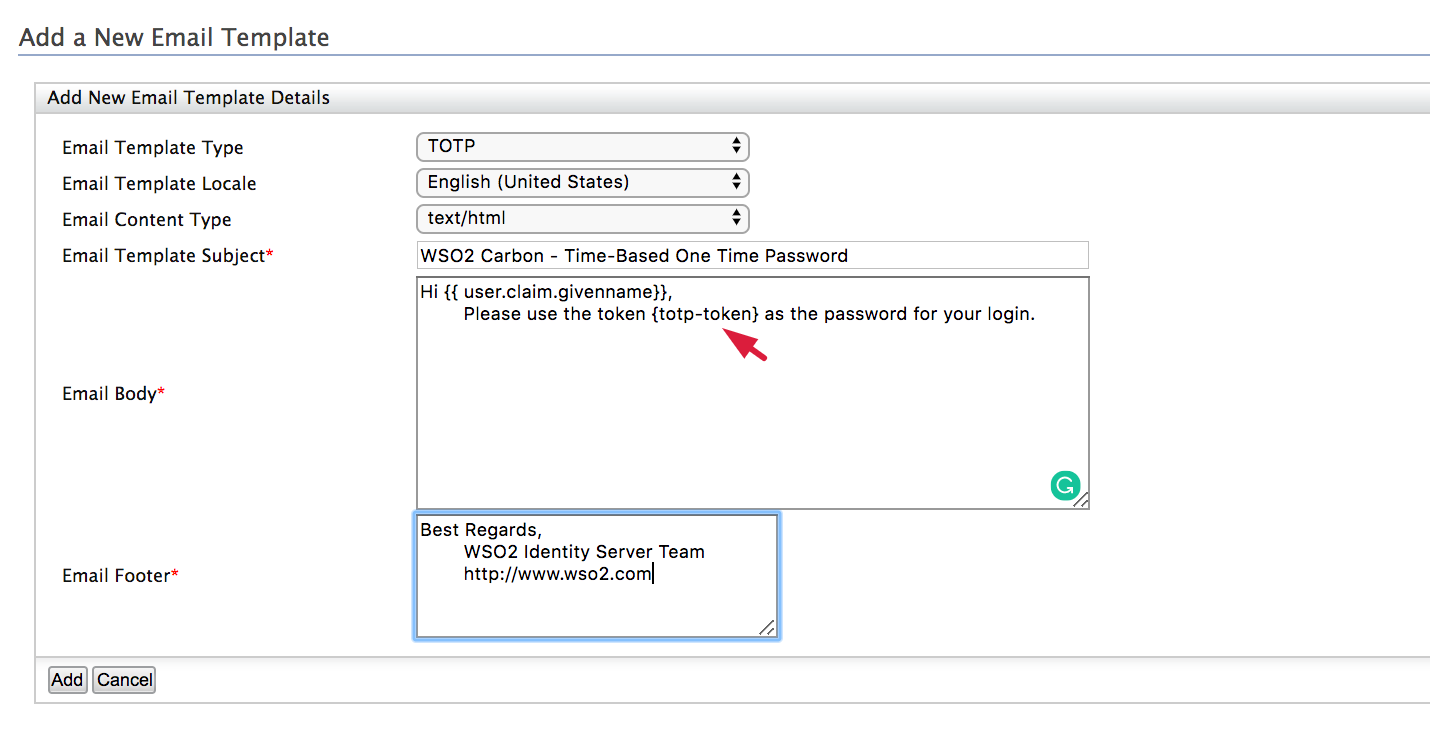
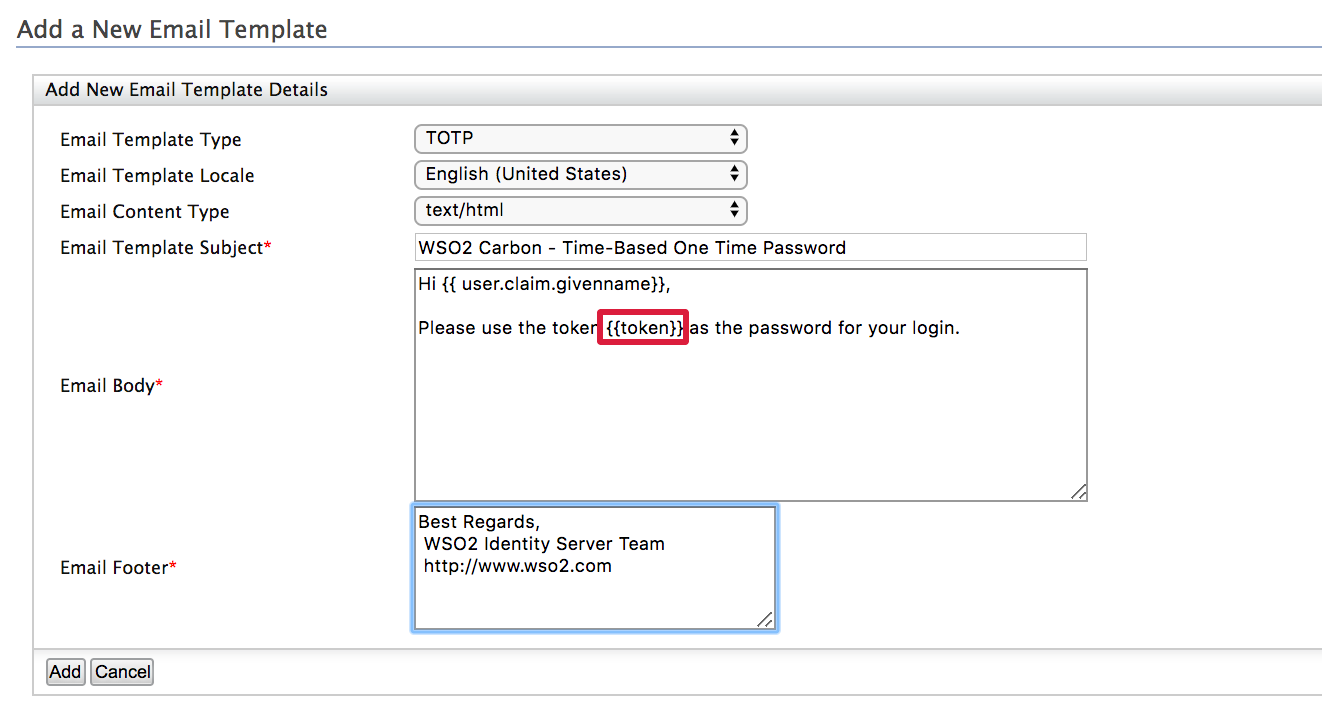
Add correct placeholder in TOTP email template

diff --git a/en/docs/learn/configuring-totp.md b/en/docs/learn/configuring-totp.md
@@ -1,45 +1,47 @@
 # Configuring TOTP Authenticator
 
 The TOTP authenticator allows you to authenticate a user using
-Time-Based One Time Password (TOTP) through WSO2 Identity Server. It
+**Time-Based One Time Password** (TOTP) through WSO2 Identity Server. It
 uses the TOTP specification to calculate the access tokens based on the
 time and the shared secret key between the user and the identity
 provider.
 
-TOTP is a temporary passcode, generated by an algorithm, for use in 
-authenticating access to computer systems. The algorithm that generates
-each password uses the current time of day as one of its factors,
-ensuring that each password is unique.
+TOTP is an **algorithm-generated temporary passcode** that is used for
+strong authentication. The algorithm that generates each passcode uses
+the current time of day as one of its factors, ensuring that each
+password is unique.
 
-## Before You begin
+!!! Info
+    -   For more information about TOTP specification, click
+    [here](https://tools.ietf.org/html/rfc6238).
+    -   For information on MFA concepts, see [About MFA](../../learn/multi-factor-authentication). 
 
-1.  Download the WSO2 Identity Server from
-    [here](http://wso2.com/products/identity-server/ ) and
-    [run it](../../setup/running-the-product/#starting-the-server).
-    
-2.  Sign in to the [Management Console](../../setup/getting-started-with-the-management-console/) by entering your
-    username and password.
-    
-    ??? Warning "If you have migrated from older version of WSO2 Identity Server"
+!!! Tip "Before You begin"
+
+    1.  Download the WSO2 Identity Server from
+        [here](http://wso2.com/products/identity-server/ ) and
+        [run it](../../setup/running-the-product/#starting-the-server).
         
-        1.  Under the WSO2 local claim dialect, check whether the `http://wso2.org/claims/identity/secretkey ` claim exists.
-        2.  Unless, in the **Main** menu, click **Add** under **Claims** .
-        2.  Click [Add Local Claim](../../learn/adding-claim-mapping/#add-local-claim) .
-            This displays the **Add Local Claim** screen.
-        3.  Specify the following claim details in the appropriate fields:
+    2.  Sign in to the [Management Console](../../setup/getting-started-with-the-management-console/) by entering your
+        username and password.
         
-        |                      |                                           |
-        |----------------------|-------------------------------------------|
-        | Claim URI            | http://wso2.org/claims/identity/secretkey |
-        | Display Name         | Secret Key                                |
-        | Description          | Claim to store the secret key             |
-        | Mapped Attribute     | totpSecretkey <br/> if you are using a LDAP or AD, set a proper attribute for this.                             |
+??? Warning "If you have migrated from older version of WSO2 Identity Server"
     
-        ![](../assets/img/tutorials/add-claim-secret-key.png)
+    1.  Under the WSO2 local claim dialect, check whether the `http://wso2.org/claims/identity/secretkey ` claim exists.
+    2.  Unless, in the **Main** menu, click **Add** under **Claims** .
+    2.  Click [Add Local Claim](../../learn/adding-claim-mapping/#add-local-claim) .
+        This displays the **Add Local Claim** screen.
+    3.  Specify the following claim details in the appropriate fields:
+    
+    |                      |                                           |
+    |----------------------|-------------------------------------------|
+    | Claim URI            | http://wso2.org/claims/identity/secretkey |
+    | Display Name         | Secret Key                                |
+    | Description          | Claim to store the secret key             |
+    | Mapped Attribute     | totpSecretkey <br/> if you are using a LDAP or AD, set a proper attribute for this.                             |
 
-!!! info 
-    For information on MFA concepts, see [About MFA](../../learn/multi-factor-authentication). 
-    
+    ![](../assets/img/tutorials/add-claim-secret-key.png)
+
 ##  Deploying travelocity.com sample application
 
 You need to deploy and configure **travelocity.com** sample application
@@ -63,7 +65,7 @@ The next step is to configure the service provider.
     
     1.  Select the **Advanced configuration** radio button option.
 
-    2.  Creating the first authentication step:
+    2.  To create the first authentication step:
 
         1.  Click **Add Authentication Step**.
 
@@ -75,7 +77,7 @@ The next step is to configure the service provider.
             credentials that are configured with the WSO2 Identity
             Server
 
-    3.  Creating the second authentication step:
+    3.  To create the second authentication step:
 
         1.  Click **Add Authentication Step**.
 
@@ -98,7 +100,7 @@ profile.
     ![my-profile-gadget](../assets/img/tutorials/my-profile-gadget.png)
 4.  Update your email address (this email address is used to send the
     token).
-3.  To enable TOTP, select the **Enable TOTP** checkbox.  
+3.  To enable TOTP, select the **Enable TOTP** check box.  
     ![scan-totp-qr](../assets/img/tutorials/scan-qr.png)
 4.  You can use the [Google Authenticator](https://play.google.com/store/apps/details?id=com.google.android.apps.authenticator2&hl=en)
     Application to generate the one-time passwords (tokens), click on
@@ -120,16 +122,18 @@ profile.
     allowed to enable the TOTP in the authentication flow, this page
     will appear. You can scan either continue or cancel.  
     ![](../assets/img/tutorials/totp-register.png)
-5.  If you want to enrolthe user, click on the link to show the QR code.
+5.  You may enroll the user by clicking on the link to show the QR code.
     Scan the displayed QR code using the mobile application and
-    continue. 
+    continue.
     
     ??? Abstract "Click here to view QR-Code display page"
         ![](../assets/img/tutorials/scan-qr-auth-flow.png)
+    
+    !!! Note 
+        Now you are redirected to the TOTP authentication page.
         
-6.  You are redirected to the TOTP authentication page. Enter the
-    verification code from your Google Authenticator Mobile Application
-    to authenticate. 
+6.  Enter the verification code from your Google Authenticator Mobile
+    Application to authenticate.
     ![](../assets/img/tutorials/enter-totp.png)
      
     !!! Tip 
@@ -145,7 +149,7 @@ profile.
 ## Refreshing the secret key
 
 You can refresh the secret key by selecting the **Refresh Secret Key**
-checkbox in the **My Profile** gadget in the **dashboard**. However, you
+check box in the **My Profile** gadget in the **dashboard**. However, you
 must re-scan the QR code to sync the new secret key with your Google
 Authenticator mobile application.
 
@@ -169,7 +173,7 @@ enable=false
 
 ### TOTP Configuration Properties
 
-Also you may configure any of the following parameters to configure the
+You may configure any of the following parameters to change the
 behaviour of the TOTP authenticator according to your requirements.
 
 The following table describes the definition of the parameters and
@@ -215,7 +219,7 @@ You can configure any of the above as following in the
     UseCommonIssuer=true
     ```
         
-    !!! Info
+    !!! Note
         You may choose to configure any of the above property in the `<IS_HOME>/repository/conf/deployment.toml` file according to your requirements.
         If you do not configure any of the property from the `<IS_HOME>/repository/conf/deployment.toml`, the server will take the default values to the consideration
           
@@ -250,11 +254,11 @@ configuration change in the `<IS_HOME>/repository/conf/deployment.toml ` file.
     parameter values (mentioned in step 4) into the `
     <IS_HOME>/repository/conf/deployment.toml ` file.
     
-    If you use a **tenant** , upload the XML file found in`
+    If you use a **tenant**, upload the XML file found in`
     <IS_HOME>/repository/conf/identity/application-authentication.xml `
     into a specific registry location ( ` /_system/governance/totp) `.
         
-    1. Login to the management console as tenant administer.
+    1. Sign in to the Management Console as a tenant administrator.
     2. Create the collection named ` totp ` under ` /_system/governance/`
     3. Add a new resource at ` /_system/governance/totp` and upload the ` application-authentication.xml ` file into the registry location. 
     3. Change the relevant properties under `<AuthenticatorConfig name="totp" enabled="true">` tag.
@@ -291,7 +295,7 @@ obtain the QR code.
 https://localhost:9443/services/TOTPAdminService?wsdl
 ```
 
-!!! Tip    
+!!! Info    
     Read more about calling admin services
     [here](../../develop/calling-admin-services)
 
@@ -333,7 +337,7 @@ https://localhost:9443/services/TOTPAdminService?wsdl
 
 ###  Send email with TOTP
 
-Additionally, users may receive an email consisting the TOTP code during
+Additionally, users may receive an email consisting of the TOTP code during
 the authentication flow.
 
 1.  Enable the email sending configurations of the WSO2 Identity Server
@@ -342,7 +346,7 @@ the authentication flow.
 2.  Add the email template that must be sent to the user when the server
     generate the token. 
     
-    1.  Login to management console and click **Add** Under **Email
+    1.  Sign in to the Management Console and click **Add** Under **Email
         Templates** in the **Home** tab.
     2.  Click **Add Email Template Type**.
     3.  In the next form add **TOTP** as "Template Type Display Name"
@@ -357,13 +361,13 @@ the authentication flow.
         |Template Type| Select **TOTP** |
         |Email Template Locale Email    | Select **English (United States)     |     
         |Content Type    | html     | 
-        |Email Template Subject*    | WSO2 Carbon    | Time-Based One Time Password    | 
-        |Email Email Body*    | Hi {{ user.claim.givenname}}, <br/> Please use the token {totp-token} as the password for your login.    | 
+        |Email Template Subject*    | WSO2 Carbon - Time-Based One Time Password    | 
+        |Email Email Body*    | Hi {{ user.claim.givenname}}, <br/> Please use the token {{token}} as the password for your login.    | 
         |Email Footer*    | Best Regards, <br/>Identity Server Team <br/> http://www.wso2.com |
                 
     !!! Tip 
         You can change the Email Subject, Body and Footer as
-        required. however, Please note that you must include `{totp-token}`
+        required. however, Please note that you must include `{{token}}`
         in the email body as a placeholder for the token generated during
         the authentication flow.
     
@@ -383,13 +387,13 @@ the authentication flow.
                     <targetEpr></targetEpr>
                     <subject>WSO2 Carbon - Time-Based One Time Password</subject>
                     <body>
-                Hi {{ user.claim.givenname}},
-                Please use the token {totp-token} as the password for your login.
+                        Hi {{ user.claim.givenname}},
+                        Please use the token {{token}} as the password for your login.
                     </body>
                     <footer>
-                Best Regards,
-                WSO2 Identity Server Team
-                http://www.wso2.com
+                        Best Regards,
+                        WSO2 Identity Server Team
+                        http://www.wso2.com
                     </footer>
                     <redirectPath></redirectPath>
                 </configuration>  

diff --git a/en/docs/learn/configuring-sms-otp.md b/en/docs/learn/configuring-sms-otp.md
@@ -5,11 +5,10 @@ The SMSOTP authenticator allows you to authenticate user via SMS through WSO2 IS
 !!! info 
     For information on MFA concepts, see [About MFA](../../learn/multi-factor-authentication). 
     
-This document provides instructions on how to configure the SMS OTP
-connector and the WSO2 Identity Server (WSO2 IS) to integrate using a
-sample app. This is configured so that SMSOTP is a second authentication
-factor for the sample application. See the following sections for more
-information.
+This document explains how to configure the SMS OTP connector and WSO2
+Identity Server using a sample application—SMS OTP is the second
+authentication factor of the sample application.
+Let's get started!
 
 ## Enable SMSOTP
 
